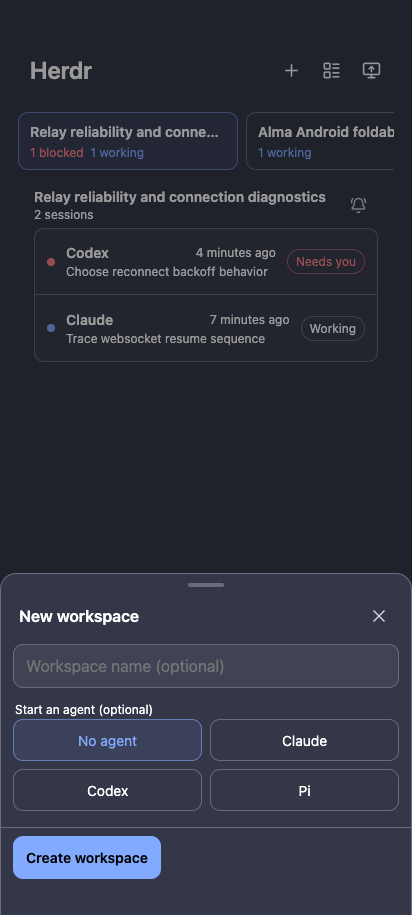
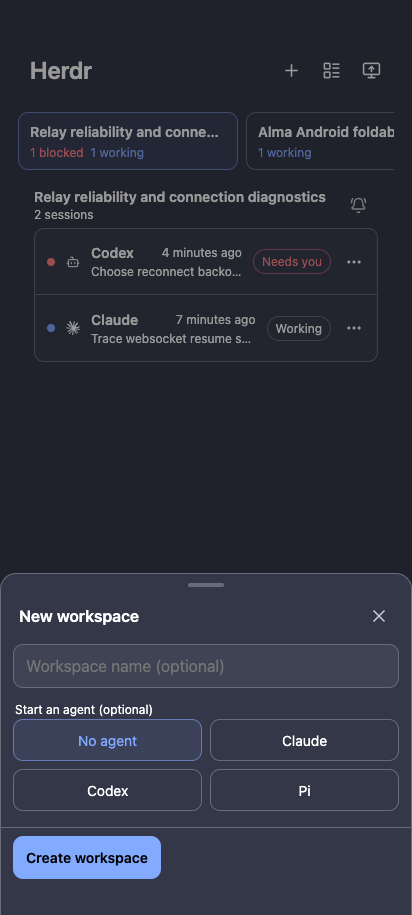
fix(herdr): preserve row management affordance

Changed region(s): [[0.1456, 0.3366, 0.8738, 0.3978], [0.1456, 0.2448, 0.8738, 0.306]]

diff --git a/src/herdr/AgentsBoard.test.tsx b/src/herdr/AgentsBoard.test.tsx
@@ -10,6 +10,8 @@ import { afterEach, describe, expect, it, vi } from 'vitest'
 import { MemoryRouter } from 'react-router-dom'
 import { AgentPaneRow } from './AgentsBoard'
 
+const openPane = vi.fn()
+
 const api = {
   readHerdrPane: vi.fn(async () => ({
     read: {
@@ -21,6 +23,9 @@ const api = {
 
 vi.mock('./HerdrProvider', () => ({
   useHerdr: () => ({ apiFor: () => api }),
+}))
+vi.mock('./AgentsManage', () => ({
+  useAgentsManage: () => ({ openPane }),
 }))
 vi.mock('../i18n', () => ({ useT: () => (key: string) => key }))
 vi.mock('react-router-dom', async () => {
@@ -54,6 +59,30 @@ describe('AgentPaneRow blocked quick answer', () => {
 
     expect(container.querySelector('[data-agent-mark="claude"]')).toBeTruthy()
     expect(container.querySelector('.agent-mark.muted')).toBeTruthy()
+  })
+
+  it('keeps the trailing management affordance beside the agent mark', () => {
+    const { container } = render(
+      <MemoryRouter>
+        <AgentPaneRow
+          desktopId="desktop"
+          pane={{
+            id: 'pane-1',
+            workspaceId: 'workspace-1',
+            agent: 'codex',
+            sessionAgent: 'claude',
+            status: 'idle',
+            title: 'Review changes',
+          }}
+        />
+      </MemoryRouter>,
+    )
+
+    expect(container.querySelector('[data-agent-mark="claude"]')).toBeTruthy()
+    fireEvent.click(screen.getByRole('button', { name: 'agents.tabActions' }))
+    expect(openPane).toHaveBeenCalledWith(
+      expect.objectContaining({ id: 'pane-1' }),
+    )
   })
 
   it('reads a blocked visible pane once and sends cursor-relative keys', async () => {

diff --git a/src/herdr/AgentsBoard.tsx b/src/herdr/AgentsBoard.tsx
@@ -114,15 +114,13 @@ export function AgentPaneRow({
           {t(`agents.status.${agentStatusClass(pane.status)}`)}
         </span>
       </div>
-      {compact ? (
-        <button
-          className="agent-more-button"
-          aria-label={t('agents.tabActions')}
-          onClick={() => manage.openPane(pane)}
-        >
-          <MoreHorizontal size={18} />
-        </button>
-      ) : null}
+      <button
+        className="agent-more-button"
+        aria-label={t('agents.tabActions')}
+        onClick={() => manage.openPane(pane)}
+      >
+        <MoreHorizontal size={18} />
+      </button>
       {prompt ? (
         <aside className="agent-row-blocked-card">
           <strong>{prompt.question}</strong>

diff --git a/src/styles.css b/src/styles.css
@@ -8686,7 +8686,7 @@ dialog:focus,
 .agent-pane-row.compact .agent-status-badge {
   display: none;
 }
-.agent-pane-row.compact {
+.agent-pane-row {
   padding-right: 46px;
 }
 .agent-more-button {
